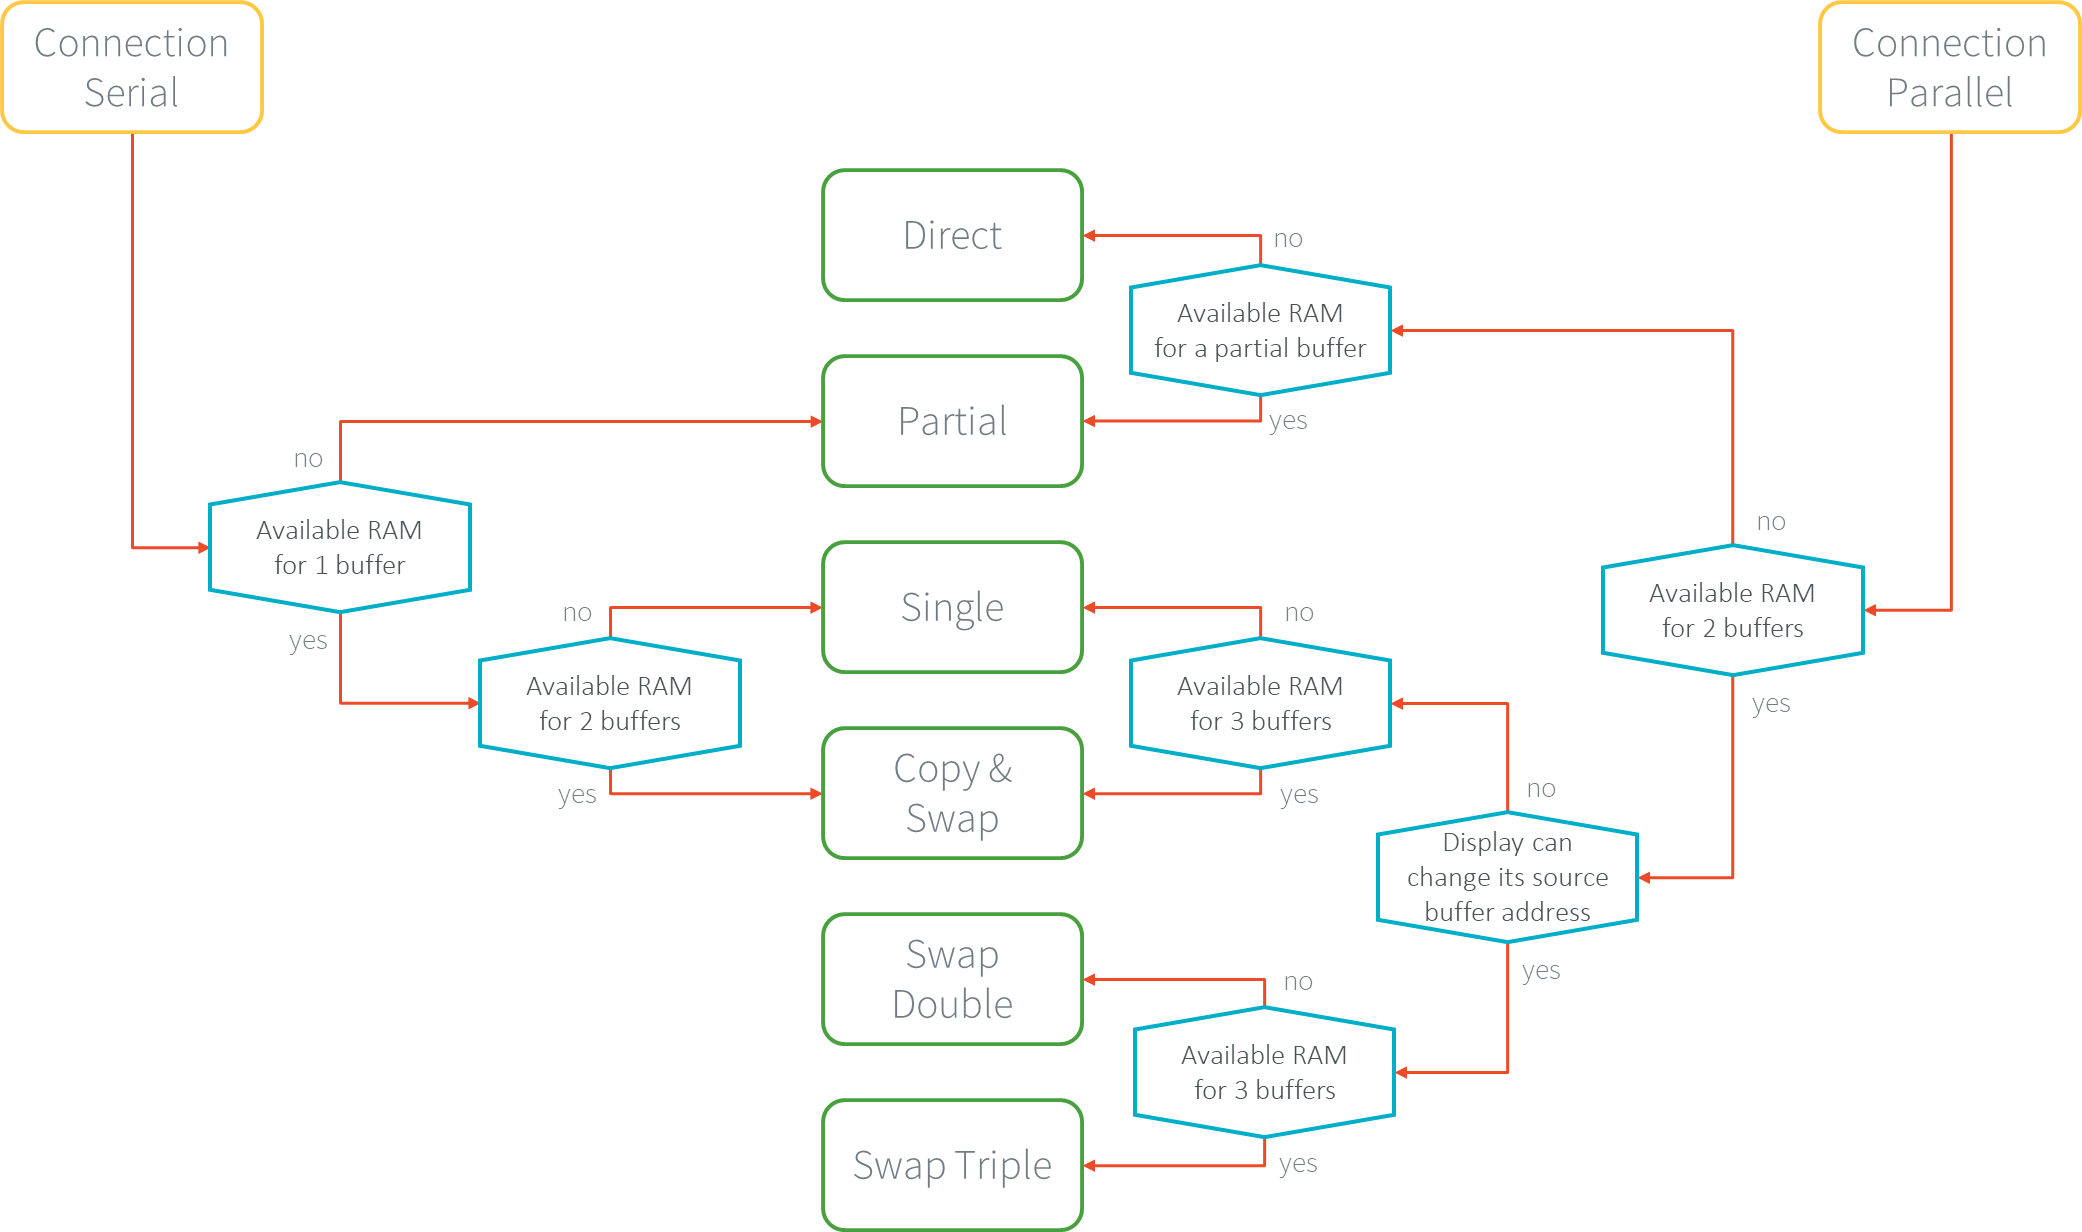
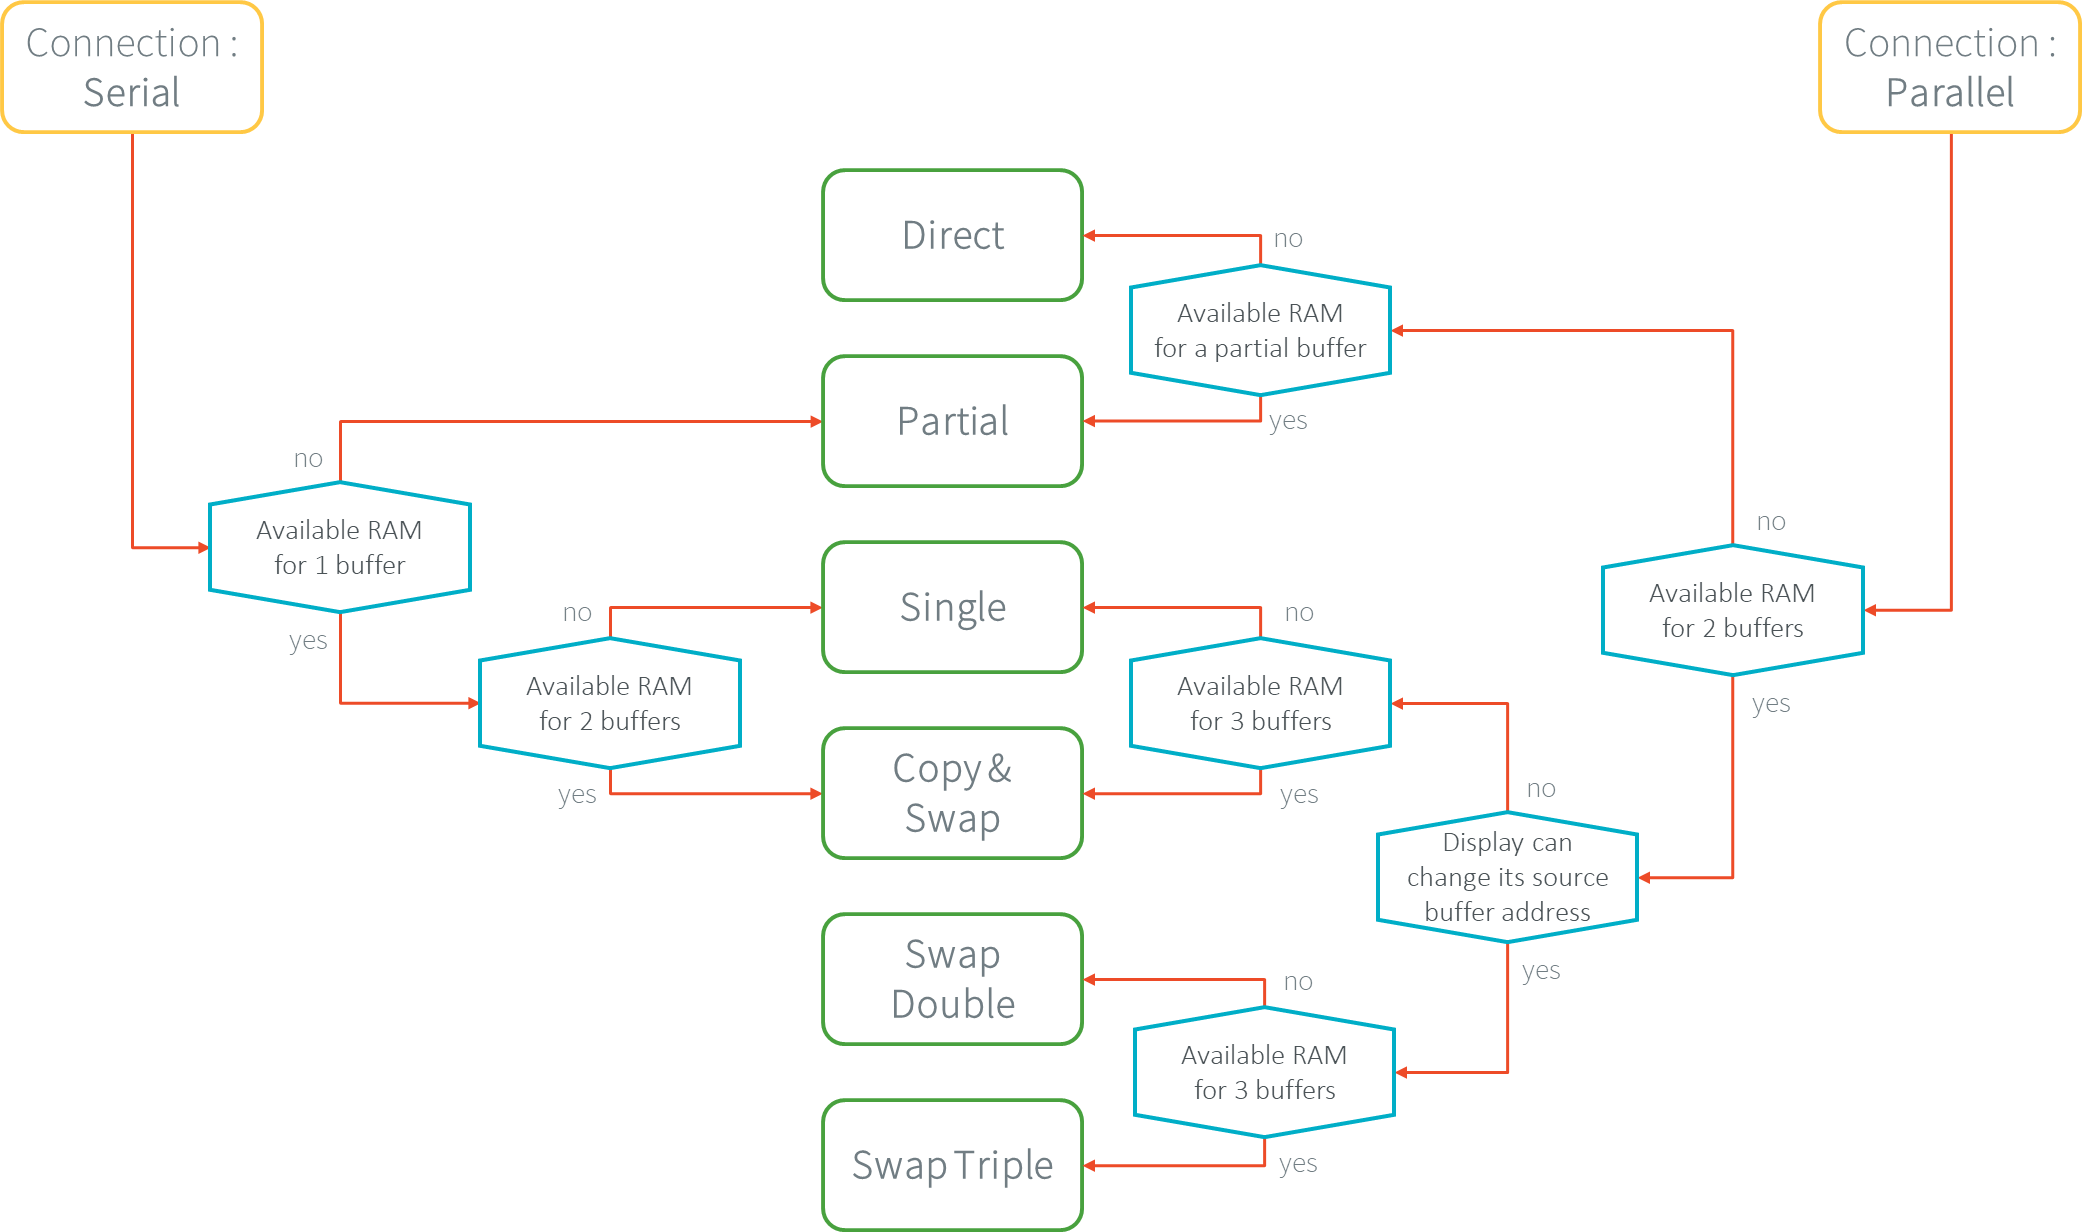
rename "connection"

diff --git a/VEEPortingGuide/uiDisplay.rst b/VEEPortingGuide/uiDisplay.rst
@@ -82,11 +82,11 @@ This memory is often not *seen* by the MCU: the MCU can only write into it with 
 This is the notion of **unmapped memory**.
 
 .. figure:: images/ui_display_serial.*
-   :alt: Display Connection Serial
+   :alt: Display Serial Connection
    :scale: 50%
    :align: center
 
-   Display Connection Serial
+   Display Serial Connection
 
 .. _section_display_parallel:
 
@@ -100,11 +100,11 @@ By definition, this memory is *seen* by the MCU: the MCU can write (and read) in
 This is the notion of **mapped memory**.
 
 .. figure:: images/ui_display_parallel.*
-   :alt: Display Connection Parallel
+   :alt: Display Parallel Connection
    :scale: 50%
    :align: center
 
-   Display Connection Parallel
+   Display Parallel Connection
 
 .. _section_display_buffer_mode:
 
@@ -253,7 +253,7 @@ Single Buffer
 
 .. _section_display_single_serial:
 
-Connection Serial
+Serial Connection
 """""""""""""""""
 
 For the display connection *serial*, there are two distinct buffers: the buffer where the drawings are rendered is often called **back buffer**, and the display module buffer **frame buffer** or **front buffer**.
@@ -277,7 +277,7 @@ As soon as the is sending done, the application can draw again in the back buffe
 
 .. _section_display_single_parallel:
 
-Connection Parallel
+Parallel Connection
 """""""""""""""""""
 
 When the :ref:`swap mode <section_display_swap_double_parallel>` is not possible (the display panel is mapped on a fixed MCU memory address), the mode **single buffer** can be used.
@@ -304,7 +304,7 @@ However there some differences:
 Copy and Swap Buffer
 --------------------
 
-Connection Serial
+Serial Connection
 """""""""""""""""
 
 When the time to send to the data from the back buffer to the frame buffer is :ref:`too long <section_display_single_serial>`, a second buffer can be allocated in the MCU memory.
@@ -326,7 +326,7 @@ The *flush* step consists in sending the back buffer data to the display module 
 
    Copy and Swap (serial)
 
-Connection Parallel
+Parallel Connection
 """""""""""""""""""
 
 When the time to copy the data from the back buffer to the frame buffer is :ref:`too long <section_display_single_parallel>`, a third buffer can be allocated in the MCU memory.
